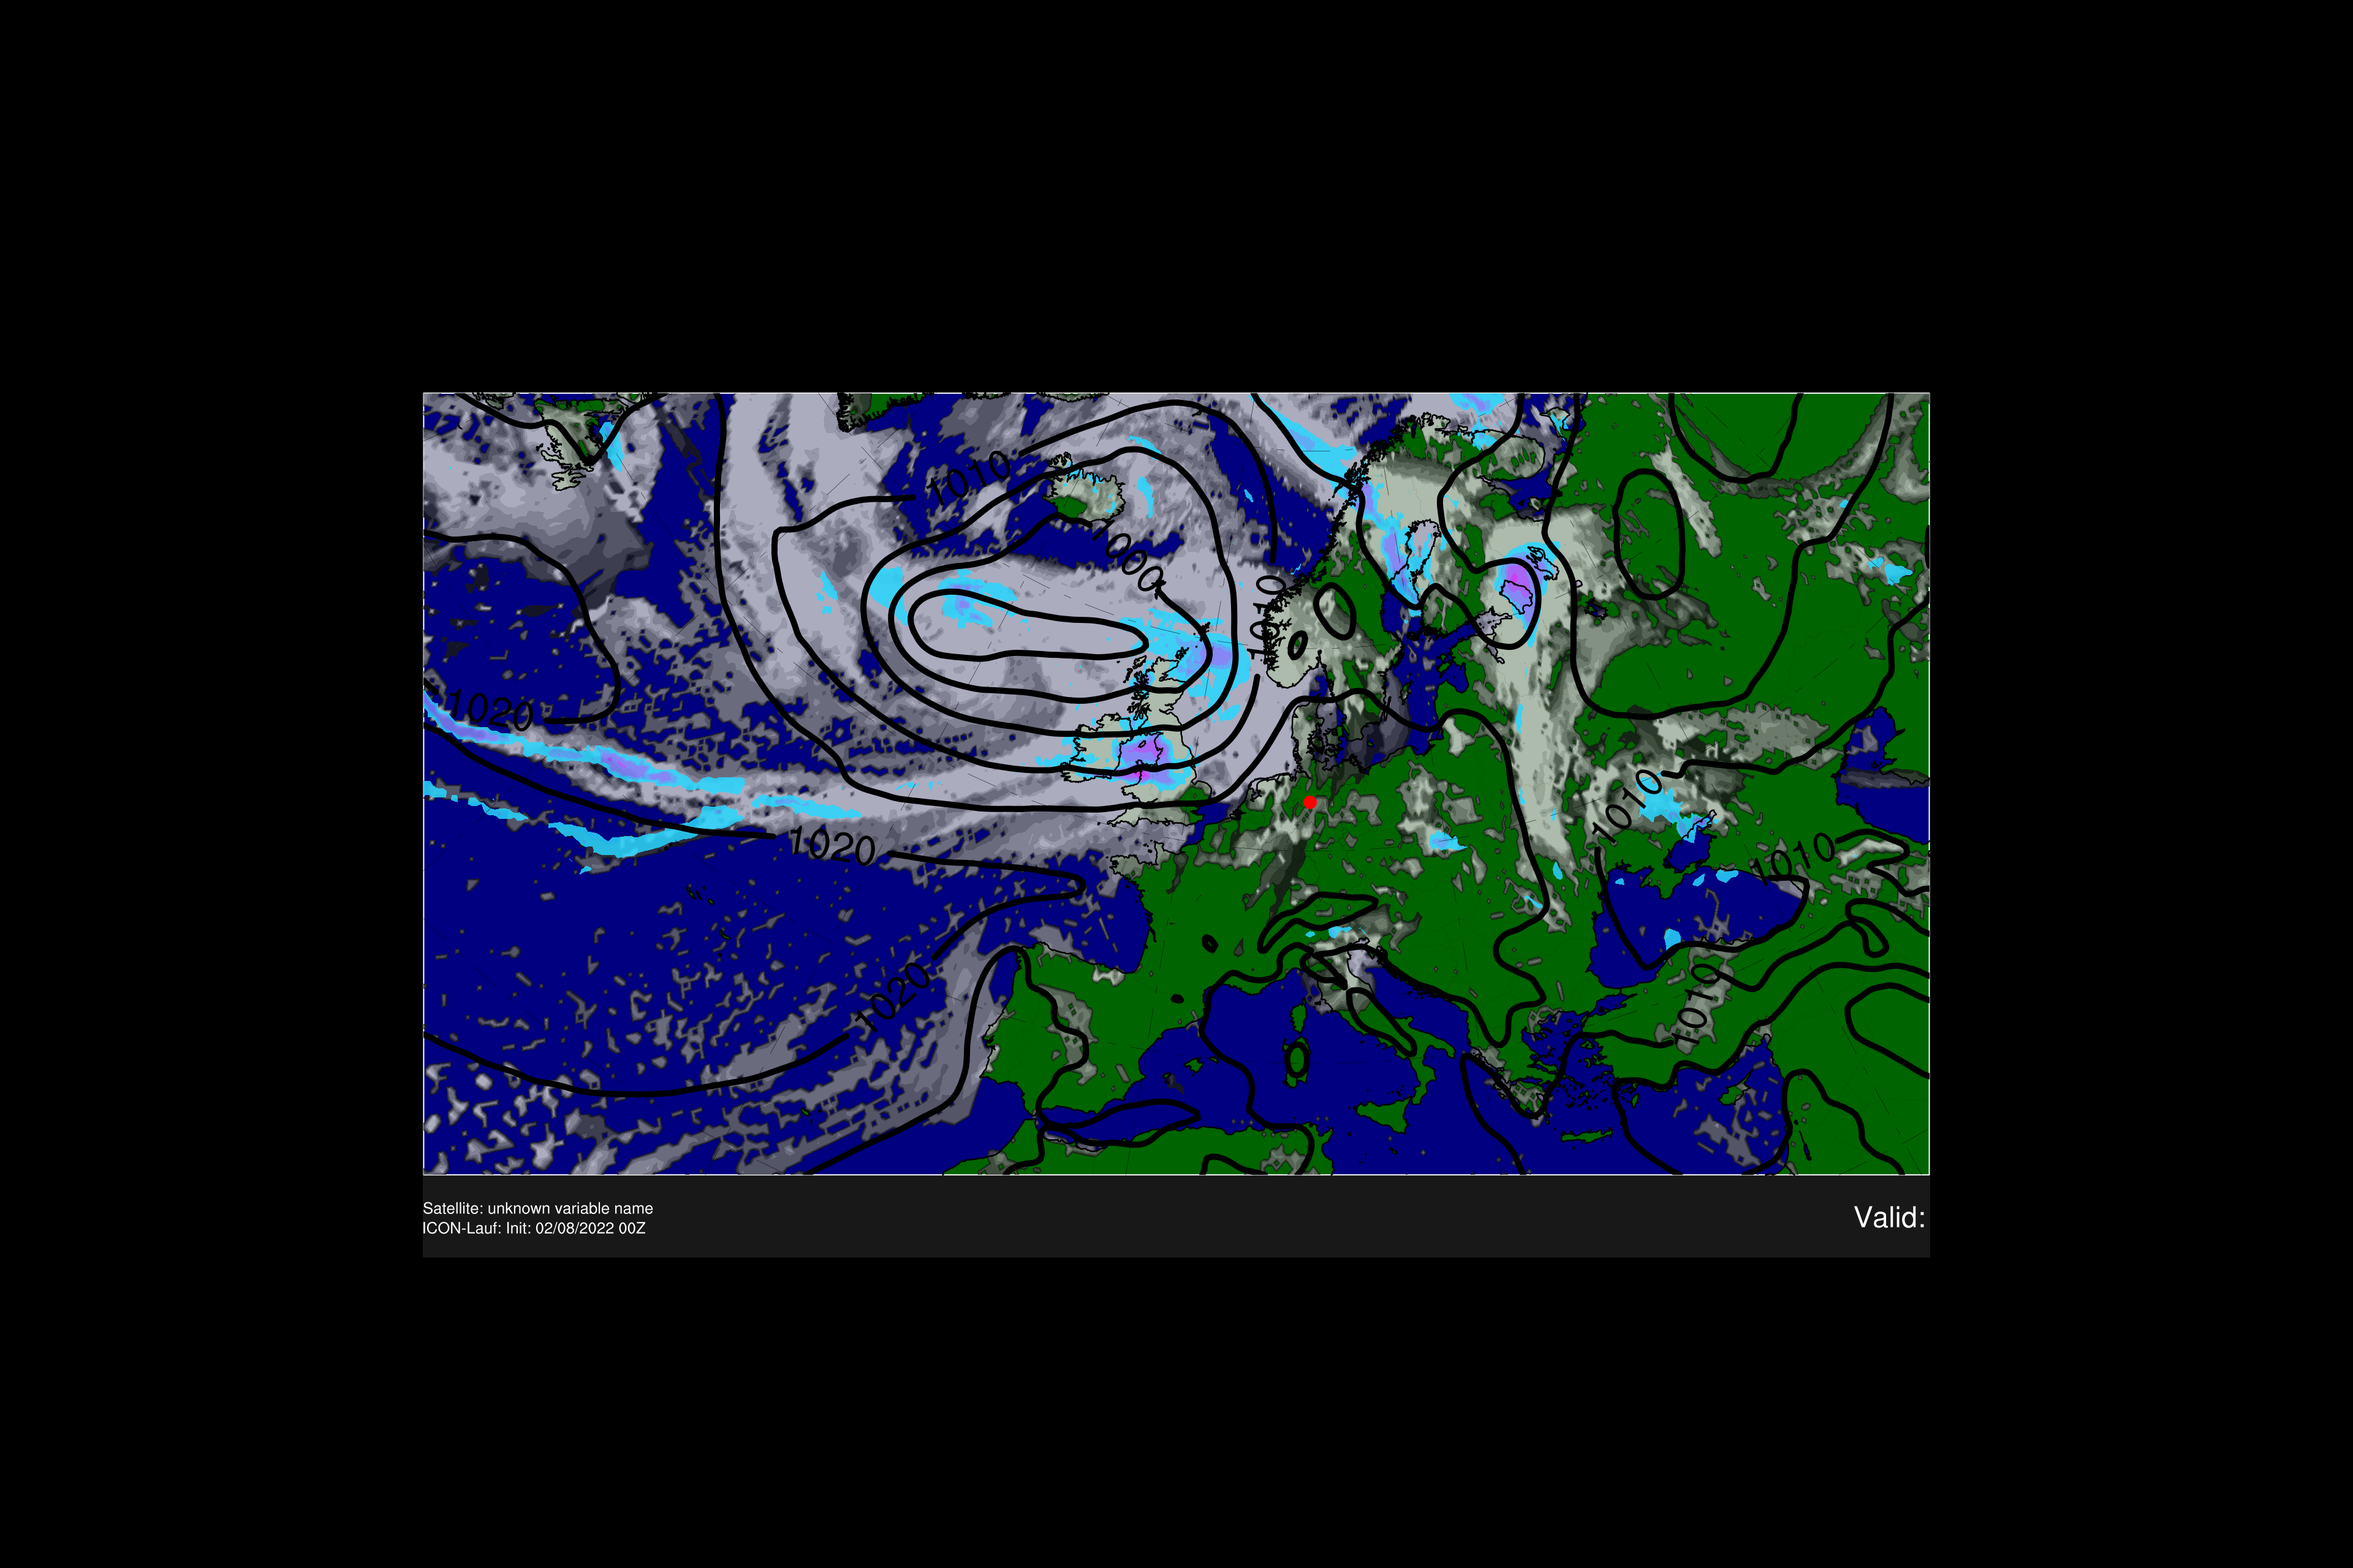
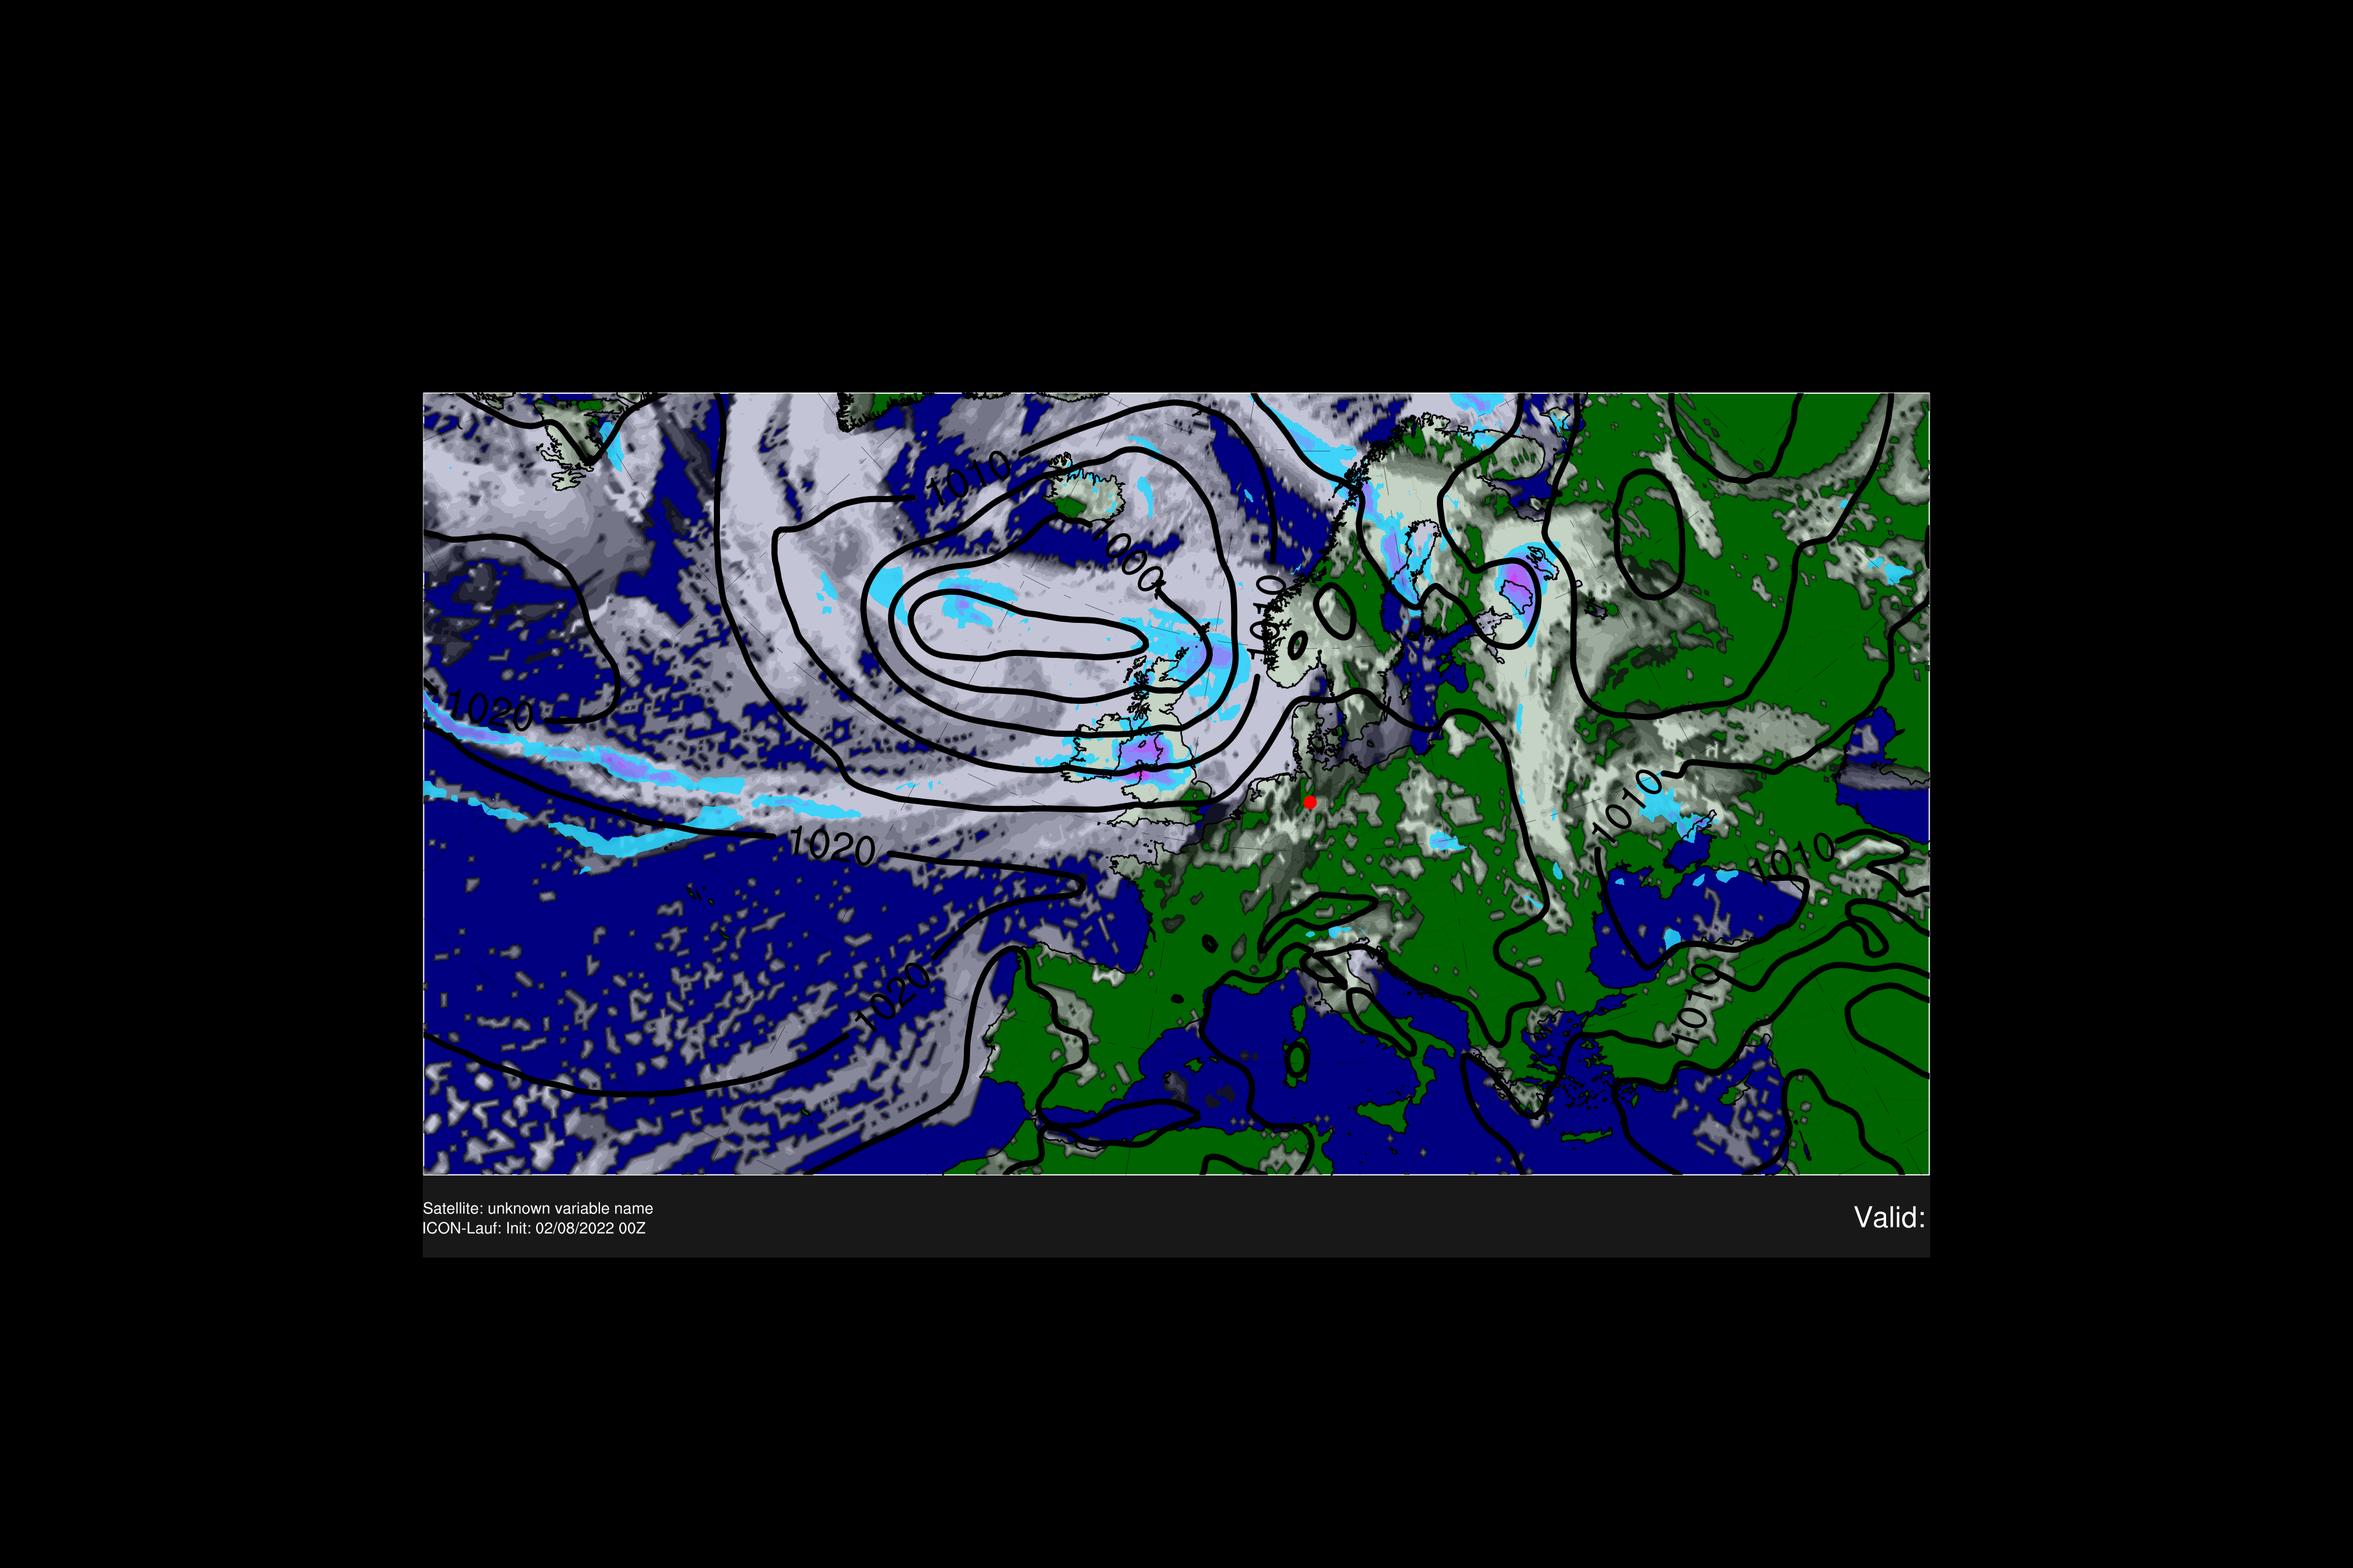
Update Readme

Changed region(s): [[0.1562, 0.25, 0.8438, 0.75], [0.5312, 0.7188, 0.5625, 0.75], [0.5, 0.6875, 0.5312, 0.7188]]

diff --git a/bd_sw_meteosat.py b/bd_sw_meteosat.py
@@ -275,7 +275,7 @@ var1res.cnFillPalette    = cmap_colors #-- set the0 colormap to be used or 'NCL_
 
 var1res.cnLevelSelectionMode = "ManualLevels"
 # var1res.cnLevels             = [0.001, 0.2, 0.5, 1, 2, 5, 10, 20, 50, 100]
-var1res.cnMinLevelValF       = 0.2
+var1res.cnMinLevelValF       = 0.01
 var1res.cnMaxLevelValF       = 1.01
 var1res.cnLevelSpacingF      = 0.1
 var1res.cnFillOpacityF       = 0.85
